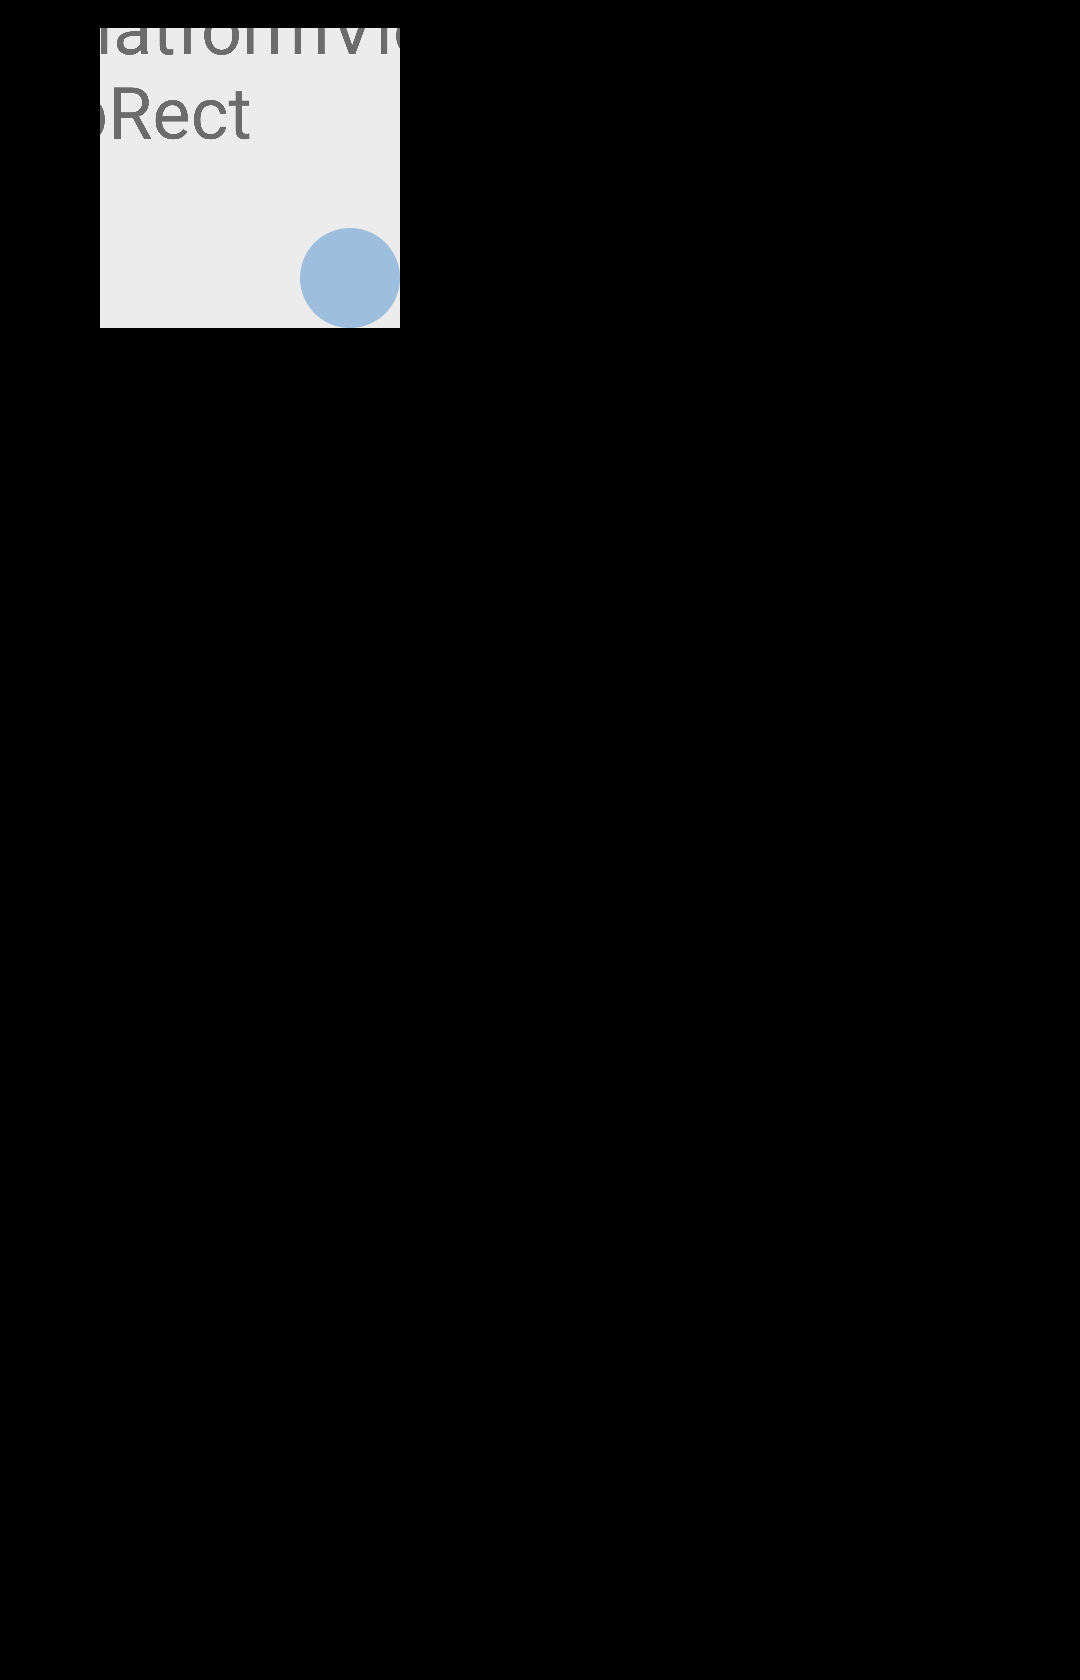
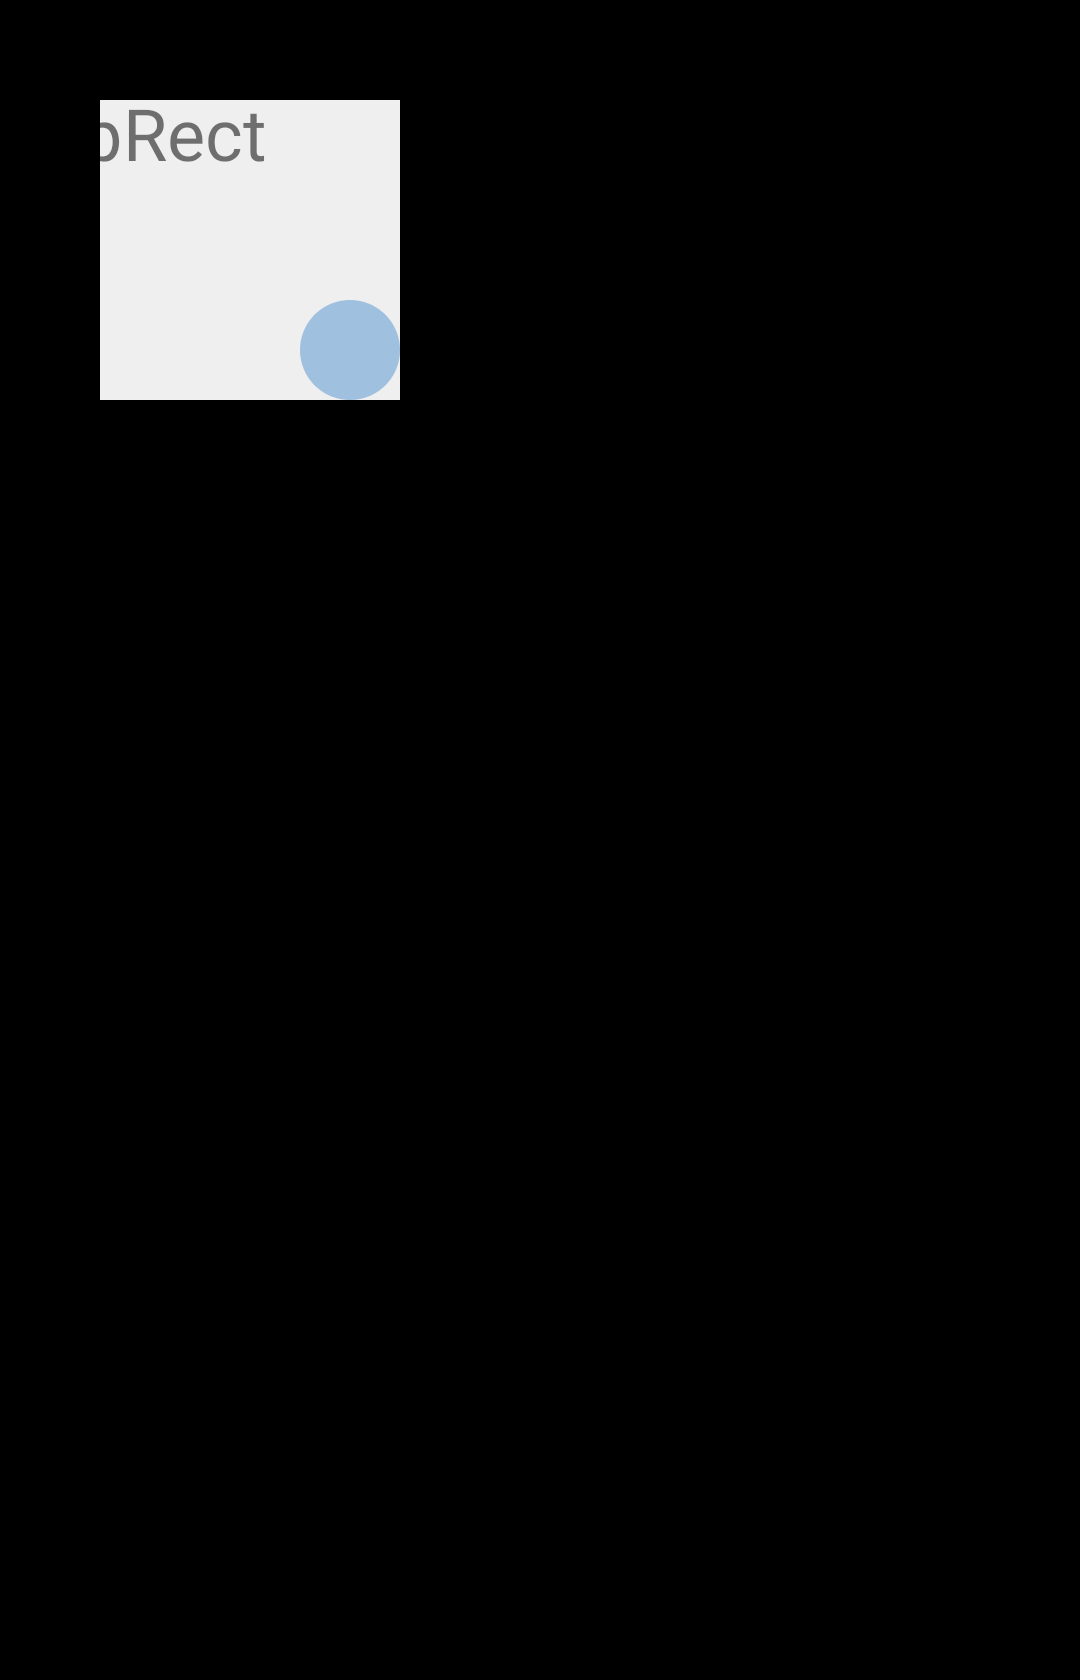
Fix and clean up scenario app for Android (#22540)

Changed region(s): [[0.0917, 0.1238, 0.3667, 0.2476], [0.0917, 0.0, 0.3972, 0.0929]]

diff --git a/testing/scenario_app/lib/src/platform_view.dart b/testing/scenario_app/lib/src/platform_view.dart
@@ -46,8 +46,6 @@ class PlatformViewScenario extends Scenario with _BasePlatformViewScenarioMixin 
   void onBeginFrame(Duration duration) {
     final SceneBuilder builder = SceneBuilder();
 
-    builder.pushOffset(0, 0);
-
     finishBuilderByAddingPlatformViewAndPicture(builder, id);
   }
 }
@@ -69,8 +67,6 @@ class PlatformViewNoOverlayIntersectionScenario extends Scenario with _BasePlatf
   @override
   void onBeginFrame(Duration duration) {
     final SceneBuilder builder = SceneBuilder();
-
-    builder.pushOffset(0, 0);
 
     finishBuilderByAddingPlatformViewAndPicture(
       builder,
@@ -98,8 +94,6 @@ class PlatformViewPartialIntersectionScenario extends Scenario with _BasePlatfor
   void onBeginFrame(Duration duration) {
     final SceneBuilder builder = SceneBuilder();
 
-    builder.pushOffset(0, 0);
-
     finishBuilderByAddingPlatformViewAndPicture(
       builder,
       id,
@@ -125,8 +119,6 @@ class PlatformViewTwoIntersectingOverlaysScenario extends Scenario with _BasePla
   @override
   void onBeginFrame(Duration duration) {
     final SceneBuilder builder = SceneBuilder();
-
-    builder.pushOffset(0, 0);
 
     _addPlatformViewToScene(builder, id, 500, 500);
     final PictureRecorder recorder = PictureRecorder();
@@ -166,8 +158,6 @@ class PlatformViewOneOverlayTwoIntersectingOverlaysScenario extends Scenario wit
   @override
   void onBeginFrame(Duration duration) {
     final SceneBuilder builder = SceneBuilder();
-
-    builder.pushOffset(0, 0);
 
     _addPlatformViewToScene(builder, id, 500, 500);
     final PictureRecorder recorder = PictureRecorder();
@@ -217,8 +207,6 @@ class MultiPlatformViewWithoutOverlaysScenario extends Scenario with _BasePlatfo
   void onBeginFrame(Duration duration) {
     final SceneBuilder builder = SceneBuilder();
 
-    builder.pushOffset(0, 0);
-
     builder.pushOffset(0, 600);
     _addPlatformViewToScene(builder, firstId, 500, 500);
     builder.pop();
@@ -258,8 +246,6 @@ class PlatformViewMaxOverlaysScenario extends Scenario with _BasePlatformViewSce
   @override
   void onBeginFrame(Duration duration) {
     final SceneBuilder builder = SceneBuilder();
-
-    builder.pushOffset(0, 0);
 
     _addPlatformViewToScene(builder, id, 500, 500);
     final PictureRecorder recorder = PictureRecorder();
@@ -314,8 +300,6 @@ class MultiPlatformViewScenario extends Scenario with _BasePlatformViewScenarioM
   void onBeginFrame(Duration duration) {
     final SceneBuilder builder = SceneBuilder();
 
-    builder.pushOffset(0, 0);
-
     builder.pushOffset(0, 600);
     _addPlatformViewToScene(builder, firstId, 500, 500);
     builder.pop();
@@ -357,13 +341,13 @@ class MultiPlatformViewBackgroundForegroundScenario extends Scenario with _BaseP
   void _firstFrame() {
     final SceneBuilder builder = SceneBuilder();
 
-    builder.pushOffset(0, 0);
-
-    builder.pushOffset(0, 600);
+    builder.pushOffset(50, 600);
     _addPlatformViewToScene(builder, firstId, 500, 500);
     builder.pop();
 
+    builder.pushOffset(50, 0);
     _addPlatformViewToScene(builder, secondId, 500, 500);
+    builder.pop();
 
     final PictureRecorder recorder = PictureRecorder();
     final Canvas canvas = Canvas(recorder);
@@ -374,7 +358,6 @@ class MultiPlatformViewBackgroundForegroundScenario extends Scenario with _BaseP
     final Picture picture = recorder.endRecording();
     builder.addPicture(const Offset(0, 0), picture);
 
-    builder.pop();
     final Scene scene = builder.build();
     window.render(scene);
     scene.dispose();
@@ -383,13 +366,12 @@ class MultiPlatformViewBackgroundForegroundScenario extends Scenario with _BaseP
   void _secondFrame() {
     final SceneBuilder builder = SceneBuilder();
 
-    builder.pushOffset(0, 0);
-
     builder.pushOffset(0, 600);
     _addPlatformViewToScene(builder, firstId, 500, 500);
     builder.pop();
 
     _addPlatformViewToScene(builder, secondId, 500, 500);
+
     final Scene scene = builder.build();
     window.render(scene);
     scene.dispose();
@@ -430,9 +412,10 @@ class PlatformViewClipRectScenario extends Scenario with _BasePlatformViewScenar
 
   @override
   void onBeginFrame(Duration duration) {
-    final SceneBuilder builder = SceneBuilder();
-    builder.pushOffset(0, 0);
-    builder.pushClipRect(const Rect.fromLTRB(100, 100, 400, 400));
+    final SceneBuilder builder =
+      SceneBuilder()
+      ..pushClipRect(const Rect.fromLTRB(100, 100, 400, 400));
+
     finishBuilderByAddingPlatformViewAndPicture(builder, id);
   }
 }
@@ -446,8 +429,6 @@ class PlatformViewClipRRectScenario extends PlatformViewScenario {
   @override
   void onBeginFrame(Duration duration) {
     final SceneBuilder builder = SceneBuilder();
-
-    builder.pushOffset(0, 0);
     builder.pushClipRRect(
       RRect.fromLTRBAndCorners(
         100,
@@ -471,18 +452,14 @@ class PlatformViewClipPathScenario extends PlatformViewScenario {
 
   @override
   void onBeginFrame(Duration duration) {
-    final SceneBuilder builder = SceneBuilder();
-
-    builder.pushOffset(0, 0);
-
     final Path path = Path()
       ..moveTo(100, 100)
       ..quadraticBezierTo(50, 250, 100, 400)
       ..lineTo(350, 400)
       ..cubicTo(400, 300, 300, 200, 350, 100)
       ..close();
-    builder.pushClipPath(path);
 
+    final SceneBuilder builder = SceneBuilder()..pushClipPath(path);
     finishBuilderByAddingPlatformViewAndPicture(builder, id);
   }
 }
@@ -495,15 +472,12 @@ class PlatformViewTransformScenario extends PlatformViewScenario {
 
   @override
   void onBeginFrame(Duration duration) {
-    final SceneBuilder builder = SceneBuilder();
-
-    builder.pushOffset(0, 0);
     final Matrix4 matrix4 = Matrix4.identity()
       ..rotateZ(1)
       ..scale(0.5, 0.5, 1.0)
       ..translate(1000.0, 100.0, 0.0);
 
-    builder.pushTransform(matrix4.storage);
+    final SceneBuilder builder = SceneBuilder()..pushTransform(matrix4.storage);
 
     finishBuilderByAddingPlatformViewAndPicture(builder, id);
   }
@@ -517,11 +491,7 @@ class PlatformViewOpacityScenario extends PlatformViewScenario {
 
   @override
   void onBeginFrame(Duration duration) {
-    final SceneBuilder builder = SceneBuilder();
-
-    builder.pushOffset(0, 0);
-    builder.pushOpacity(150);
-
+    final SceneBuilder builder = SceneBuilder()..pushOpacity(150);
     finishBuilderByAddingPlatformViewAndPicture(builder, id);
   }
 }
@@ -600,15 +570,11 @@ class PlatformViewForTouchIOSScenario extends Scenario
 
   void _firstFrame() {
     final SceneBuilder builder = SceneBuilder();
-
-    builder.pushOffset(0, 0);
     finishBuilderByAddingPlatformViewAndPicture(builder, _viewId);
   }
 
   void _secondFrame() {
-    final SceneBuilder builder = SceneBuilder();
-
-    builder.pushOffset(5, 5);
+    final SceneBuilder builder = SceneBuilder()..pushOffset(5, 5);
     finishBuilderByAddingPlatformViewAndPicture(builder, _viewId);
   }
 }

diff --git a/testing/scenario_app/android/app/src/androidTest/java/dev/flutter/scenariosui/ScreenshotUtil.java b/testing/scenario_app/android/app/src/androidTest/java/dev/flutter/scenariosui/ScreenshotUtil.java
@@ -4,8 +4,6 @@
 
 package dev.flutter.scenariosui;
 
-import android.app.Activity;
-import android.content.Context;
 import android.graphics.Bitmap;
 import android.os.Bundle;
 import android.os.Handler;
@@ -129,28 +127,6 @@ public class ScreenshotUtil {
     album = null;
   }
 
-  private static int getStatusBarHeight() {
-    final Context context = InstrumentationRegistry.getTargetContext();
-    // Resource name defined in
-    // https://android.googlesource.com/platform/frameworks/base/+/master/core/res/res/values/dimens.xml#34
-    final int resourceId =
-        context.getResources().getIdentifier("status_bar_height", "dimen", "android");
-    int statusBarHeight = 0;
-    if (resourceId > 0) {
-      statusBarHeight = context.getResources().getDimensionPixelSize(resourceId);
-    }
-    return statusBarHeight;
-  }
-
-  private static int getActionBarHeight(Activity activity) {
-    int actionBarHeight = 0;
-    final android.content.res.TypedArray styledAttributes =
-        activity.getTheme().obtainStyledAttributes(new int[] {android.R.attr.actionBarSize});
-    actionBarHeight = (int) styledAttributes.getDimension(0, 0);
-    styledAttributes.recycle();
-    return actionBarHeight;
-  }
-
   /**
    * Captures a screenshot of {@code TestableFlutterActivity}.
    *
@@ -182,13 +158,7 @@ public class ScreenshotUtil {
             Bitmap bitmap =
                 InstrumentationRegistry.getInstrumentation().getUiAutomation().takeScreenshot();
             // Remove the status and action bars from the screenshot capture.
-            bitmap =
-                Bitmap.createBitmap(
-                    bitmap,
-                    0,
-                    getStatusBarHeight(),
-                    bitmap.getWidth(),
-                    bitmap.getHeight() - getStatusBarHeight() - getActionBarHeight(activity));
+            bitmap = Bitmap.createBitmap(bitmap, 0, 0, bitmap.getWidth(), bitmap.getHeight());
 
             final String screenshotName = String.format("%s__%s", testClass, testName);
             // Write bitmap to the album.

diff --git a/testing/scenario_app/ios/Scenarios/ScenariosUITests/UnobstructedPlatformViewTests.m b/testing/scenario_app/ios/Scenarios/ScenariosUITests/UnobstructedPlatformViewTests.m
@@ -195,30 +195,30 @@
 
   XCUIElement* platform_view1 = app.textViews[@"platform_view[0]"];
   XCTAssertTrue([platform_view1 waitForExistenceWithTimeout:1.0]);
-  XCTAssertEqual(platform_view1.frame.origin.x, 25);
+  XCTAssertEqual(platform_view1.frame.origin.x, 50);
   XCTAssertEqual(platform_view1.frame.origin.y, 325);
   XCTAssertEqual(platform_view1.frame.size.width, 250);
   XCTAssertEqual(platform_view1.frame.size.height, 250);
 
   XCUIElement* platform_view2 = app.textViews[@"platform_view[1]"];
   XCTAssertTrue(platform_view2.exists);
-  XCTAssertEqual(platform_view2.frame.origin.x, 25);
+  XCTAssertEqual(platform_view2.frame.origin.x, 50);
   XCTAssertEqual(platform_view2.frame.origin.y, 25);
   XCTAssertEqual(platform_view2.frame.size.width, 250);
   XCTAssertEqual(platform_view2.frame.size.height, 250);
 
   XCUIElement* overlay1 = app.otherElements[@"platform_view[0].overlay[0]"];
   XCTAssertTrue(overlay1.exists);
-  XCTAssertEqual(overlay1.frame.origin.x, 25);
+  XCTAssertEqual(overlay1.frame.origin.x, 50);
   XCTAssertEqual(overlay1.frame.origin.y, 325);
-  XCTAssertEqual(overlay1.frame.size.width, 225);
+  XCTAssertEqual(overlay1.frame.size.width, 200);
   XCTAssertEqual(overlay1.frame.size.height, 175);
 
   XCUIElement* overlay2 = app.otherElements[@"platform_view[1].overlay[0]"];
   XCTAssertTrue(overlay2.exists);
-  XCTAssertEqual(overlay2.frame.origin.x, 25);
+  XCTAssertEqual(overlay2.frame.origin.x, 50);
   XCTAssertEqual(overlay2.frame.origin.y, 25);
-  XCTAssertEqual(overlay2.frame.size.width, 225);
+  XCTAssertEqual(overlay2.frame.size.width, 200);
   XCTAssertEqual(overlay2.frame.size.height, 250);
 }
 

diff --git a/testing/scenario_app/README.md b/testing/scenario_app/README.md
@@ -46,7 +46,7 @@ The test is run on a x86 emulator. To run the test locally, you must create an e
 
 ```
 hw.lcd.density = 480
-hw.lcd.height = 1920
+hw.lcd.height = 1680
 hw.lcd.width = 1080
 lcd.depth = 16
 ```
